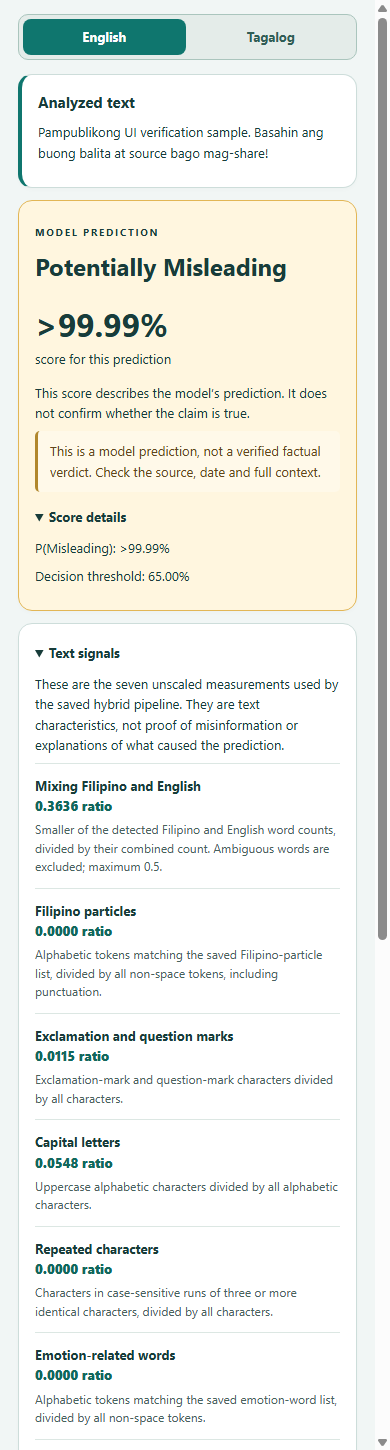
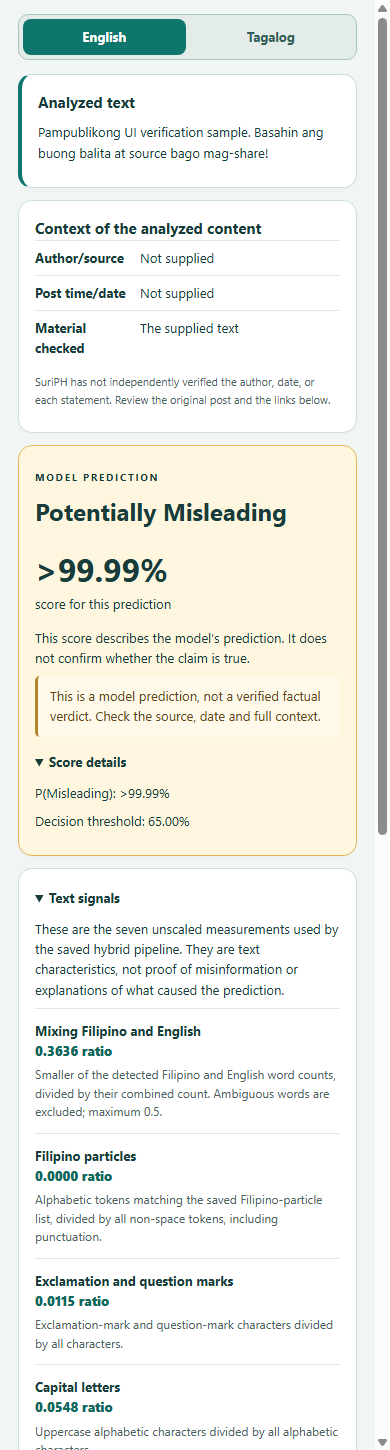
Restore Facebook context and source lookup

diff --git a/chrome-extension/src/Popup.jsx b/chrome-extension/src/Popup.jsx
@@ -7,18 +7,18 @@ const copy = {
     tagline: 'Read carefully. Check the context.', pageTools: 'Page tools', on: 'on', off: 'off', toggleTitle: 'Turn SuriPH page controls on or off and reload Facebook',
     textLabel: 'Text to analyze', inputHelp: 'Use public, non-sensitive Facebook content. The screening service does not save it by default. Review the complete text below before analysis.', placeholder: 'Paste English, Filipino or Taglish text…', selected: 'Use selected text', caption: 'Use Facebook post caption', lookup: 'Related-source lookup', lookupHelp: 'Search related reading and published fact-check reviews. Up to 500 characters may be sent to Serper and Google Fact Check. This does not change the prediction.', privacy: 'Do not submit private or identifying content.', analyze: 'Analyze text', mediaTitle: 'Optional image or video extraction', mediaHelp: 'Review the extracted text. Quality depends on the media and server support.', mediaType: 'Media type', image: 'Image OCR', video: 'Video speech and frame text', choose: 'Choose a file (maximum 50 MiB)', extract: 'Extract and analyze', clear: 'Clear this input and result', empty: 'Your prediction and seven text measurements will appear here.', prototype: 'Research prototype · Predictions can be wrong.',
     reading: 'Reading selected Facebook content', analyzing: 'Analyzing text', mediaBusy: 'Extracting and analyzing media', keepOpen: 'Please keep this popup open.', noTab: 'Open Facebook in the active tab first.', noText: 'No readable Facebook post text was found. Select the exact text or paste it here.', enter: 'Enter or select text before analyzing.', noFile: 'Choose a file first.', unavailable: 'The screening service is unavailable. Try again later.',
-    analyzed: 'Analyzed text', prediction: 'MODEL PREDICTION', classScore: 'score for this prediction', scoreExplain: 'This score describes the model’s prediction. It does not confirm whether the claim is true.', nonLimit: '“No Misleading Information Detected” does not confirm that the claim is true. Check the source, date and full context.', misLimit: 'This is a model prediction, not a verified factual verdict. Check the source, date and full context.', technical: 'Score details', misleadingProbability: 'P(Misleading)', threshold: 'Decision threshold',
+    analyzed: 'Analyzed text', contextTitle: 'Context of the analyzed content', author: 'Author/source', postTime: 'Post time/date', checkedMaterial: 'Material checked', contextLimit: 'SuriPH has not independently verified the author, date, or each statement. Review the original post and the links below.', prediction: 'MODEL PREDICTION', classScore: 'score for this prediction', scoreExplain: 'This score describes the model’s prediction. It does not confirm whether the claim is true.', nonLimit: '“No Misleading Information Detected” does not confirm that the claim is true. Check the source, date and full context.', misLimit: 'This is a model prediction, not a verified factual verdict. Check the source, date and full context.', technical: 'Score details', misleadingProbability: 'P(Misleading)', threshold: 'Decision threshold',
     signals: 'Text signals', signalHelp: 'These are the seven unscaled measurements used by the saved hybrid pipeline. They are text characteristics, not proof of misinformation or explanations of what caused the prediction.', ratio: 'ratio',
-    related: 'Related sources', relatedHelp: 'Search matches are related reading only. They do not automatically support or debunk the text.', lookupOff: 'Related-source lookup was not requested.', noRelated: 'No matching links were returned from the allowed publishers.', lookupUnavailable: 'Related-source lookup is unavailable. The prediction is unchanged.', factChecks: 'Published fact-check reviews', factHelp: 'Published reviews are independent from the SuriPH prediction and do not change it.', factOff: 'Published fact-check lookup was not requested.', noFacts: 'Google Fact Check returned no matching published reviews.', factUnavailable: 'Published fact-check lookup is unavailable. The prediction is unchanged.', missingLinks: 'Missing links do not validate the prediction.', publisherMissing: 'Publisher not supplied', searchResult: 'Search result', rating: 'Published rating',
+    related: 'Related sources from approved publishers', relatedHelp: 'Search matches are related reading only. They do not automatically support or debunk the text.', lookupOff: 'Source lookup was off for this request. Turn it on before analyzing again.', noRelated: 'No matching links were returned from the approved publishers.', lookupUnavailable: 'Related-source lookup is unavailable. The prediction is unchanged.', factChecks: 'Published fact-check reviews', factHelp: 'Published reviews are independent from the SuriPH prediction and do not change it.', factOff: 'Fact-check lookup was off for this request. Turn source lookup on before analyzing again.', noFacts: 'Google Fact Check returned no matching published reviews.', factUnavailable: 'Published fact-check lookup is unavailable. The prediction is unchanged.', missingLinks: 'Missing links do not validate the prediction.', publisherMissing: 'Publisher not supplied', searchResult: 'Search result', rating: 'Published rating',
     next: 'Next actions', nextHelp: 'Review the original source and context. You may optionally submit this exact text as a research candidate for human review.', consent: 'I consent to storing this analyzed text and page metadata in the private candidate-review queue. It will not enter a dataset automatically.', submit: 'Submit candidate for human review', submitting: 'Submitting…', submitted: 'Submitted for human review.', candidateError: 'The candidate could not be submitted.',
   },
   tl: {
     tagline: 'Basahing mabuti. Suriin ang konteksto.', pageTools: 'Mga kontrol sa page', on: 'on', off: 'off', toggleTitle: 'I-on o i-off ang mga kontrol ng SuriPH at i-reload ang Facebook',
     textLabel: 'Tekstong susuriin', inputHelp: 'Gumamit ng pampubliko at hindi sensitibong content mula sa Facebook. Hindi ito sine-save ng screening service bilang default. Basahin muna ang buong teksto sa ibaba.', placeholder: 'I-paste ang English, Filipino, o Taglish na teksto…', selected: 'Gamitin ang piniling teksto', caption: 'Gamitin ang caption ng Facebook post', lookup: 'Paghahanap ng kaugnay na source', lookupHelp: 'Maghanap ng kaugnay na babasahin at nailathalang fact-check. Hanggang 500 character ang maaaring ipadala sa Serper at Google Fact Check. Hindi nito binabago ang prediction.', privacy: 'Huwag magsumite ng pribado o makakakilalang impormasyon.', analyze: 'Suriin ang teksto', mediaTitle: 'Opsyonal na pagkuha mula sa image o video', mediaHelp: 'Suriin muna ang nakuhang teksto. Nakadepende ang kalidad sa media at suporta ng server.', mediaType: 'Uri ng media', image: 'Teksto sa image (OCR)', video: 'Salita at teksto sa frame ng video', choose: 'Pumili ng file (hanggang 50 MiB)', extract: 'Kunin at suriin', clear: 'Burahin ang input at resulta', empty: 'Dito lalabas ang prediction at pitong sukat ng teksto.', prototype: 'Research prototype · Maaaring magkamali ang prediction.',
     reading: 'Binabasa ang piniling Facebook content', analyzing: 'Sinusuri ang teksto', mediaBusy: 'Kinukuha at sinusuri ang media', keepOpen: 'Panatilihing bukas ang popup na ito.', noTab: 'Buksan muna ang Facebook sa aktibong tab.', noText: 'Walang nakitang mababasang teksto ng Facebook post. Piliin ang eksaktong teksto o i-paste ito rito.', enter: 'Maglagay o pumili muna ng teksto.', noFile: 'Pumili muna ng file.', unavailable: 'Hindi magamit ang screening service. Subukan muli mamaya.',
-    analyzed: 'Sinuring teksto', prediction: 'PREDICTION NG MODELO', classScore: 'score para sa prediction na ito', scoreExplain: 'Ang score na ito ay para sa hula ng modelo. Hindi nito pinatutunayang totoo o mali ang pahayag.', nonLimit: 'Ang “No Misleading Information Detected” ay hindi patunay na totoo ang pahayag. Suriin ang source, petsa, at buong konteksto.', misLimit: 'Prediction ito ng modelo at hindi beripikadong hatol sa katotohanan. Suriin ang source, petsa, at buong konteksto.', technical: 'Detalye ng score', misleadingProbability: 'P(Misleading)', threshold: 'Threshold ng desisyon',
+    analyzed: 'Sinuring teksto', contextTitle: 'Konteksto ng sinuring content', author: 'May-akda/source', postTime: 'Oras o petsa ng post', checkedMaterial: 'Sinuring bahagi', contextLimit: 'Hindi hiwalay na napatunayan ng SuriPH ang may-akda, petsa, o bawat pahayag. Suriin ang orihinal na post at mga link sa ibaba.', prediction: 'PREDICTION NG MODELO', classScore: 'score para sa prediction na ito', scoreExplain: 'Ang score na ito ay para sa hula ng modelo. Hindi nito pinatutunayang totoo o mali ang pahayag.', nonLimit: 'Ang “No Misleading Information Detected” ay hindi patunay na totoo ang pahayag. Suriin ang source, petsa, at buong konteksto.', misLimit: 'Prediction ito ng modelo at hindi beripikadong hatol sa katotohanan. Suriin ang source, petsa, at buong konteksto.', technical: 'Detalye ng score', misleadingProbability: 'P(Misleading)', threshold: 'Threshold ng desisyon',
     signals: 'Mga katangian ng teksto', signalHelp: 'Ito ang pitong hindi na-scale na sukat na ginamit ng naka-save na hybrid pipeline. Mga katangian ito ng teksto, hindi patunay ng misinformation o paliwanag kung ano ang sanhi ng prediction.', ratio: 'ratio',
-    related: 'Mga kaugnay na source', relatedHelp: 'Kaugnay na babasahin lamang ang mga resulta ng search. Hindi awtomatikong sumusuporta o nagpapabulaan ang mga ito.', lookupOff: 'Hindi hiniling ang paghahanap ng kaugnay na source.', noRelated: 'Walang tumugmang link mula sa pinapayagang publisher.', lookupUnavailable: 'Hindi magamit ang paghahanap ng source. Hindi nagbago ang prediction.', factChecks: 'Mga nailathalang fact-check', factHelp: 'Hiwalay sa prediction ng SuriPH ang mga nailathalang review at hindi nila ito binabago.', factOff: 'Hindi hiniling ang paghahanap ng nailathalang fact-check.', noFacts: 'Walang ibinalik na tumugmang review ang Google Fact Check.', factUnavailable: 'Hindi magamit ang Google Fact Check. Hindi nagbago ang prediction.', missingLinks: 'Hindi pinatutunayan ng kawalan ng link ang prediction.', publisherMissing: 'Walang ibinigay na publisher', searchResult: 'Resulta ng search', rating: 'Nailathalang rating',
+    related: 'Mga kaugnay na source mula sa aprubadong publisher', relatedHelp: 'Kaugnay na babasahin lamang ang mga resulta ng search. Hindi awtomatikong sumusuporta o nagpapabulaan ang mga ito.', lookupOff: 'Naka-off ang source lookup para sa request na ito. I-on ito bago suriin muli.', noRelated: 'Walang tumugmang link mula sa mga aprubadong publisher.', lookupUnavailable: 'Hindi magamit ang paghahanap ng source. Hindi nagbago ang prediction.', factChecks: 'Mga nailathalang fact-check', factHelp: 'Hiwalay sa prediction ng SuriPH ang mga nailathalang review at hindi nila ito binabago.', factOff: 'Naka-off ang fact-check lookup para sa request na ito. I-on ang source lookup bago suriin muli.', noFacts: 'Walang ibinalik na tumugmang review ang Google Fact Check.', factUnavailable: 'Hindi magamit ang Google Fact Check. Hindi nagbago ang prediction.', missingLinks: 'Hindi pinatutunayan ng kawalan ng link ang prediction.', publisherMissing: 'Walang ibinigay na publisher', searchResult: 'Resulta ng search', rating: 'Nailathalang rating',
     next: 'Mga susunod na hakbang', nextHelp: 'Suriin ang orihinal na source at konteksto. Maaari mong kusang isumite ang eksaktong tekstong ito bilang research candidate para sa human review.', consent: 'Pumapayag akong i-store ang sinuring teksto at page metadata sa pribadong candidate-review queue. Hindi ito awtomatikong isasama sa dataset.', submit: 'Isumite para sa human review', submitting: 'Isinusumite…', submitted: 'Naisumite na para sa human review.', candidateError: 'Hindi naisumite ang candidate.',
   },
 };
@@ -44,8 +44,10 @@ export function Result({ result, language = 'en', onLanguageChange = () => {}, c
   if (!result) return null;
   const t = copy[language];
   const selectedScore = Number.isFinite(result.displayed_class_score) ? result.displayed_class_score : Number(result.confidence);
+  const context = result.context_explanation || {};
   return <section className="result-stack" aria-label="Analysis result"><LanguageSwitch language={language} onChange={onLanguageChange} />
     <article className="result-card analyzed-card"><h3>{t.analyzed}</h3><p className="input-preview">{result.analyzed_text}</p></article>
+    <article className="result-card context-card"><h3>{t.contextTitle}</h3><dl className="context-list"><div><dt>{t.author}</dt><dd>{context.author || t.publisherMissing}</dd></div><div><dt>{t.postTime}</dt><dd>{context.timing || t.publisherMissing}</dd></div><div><dt>{t.checkedMaterial}</dt><dd>{context.checked_material || t.analyzed}</dd></div></dl><p className="small">{t.contextLimit}</p></article>
     <article className={`result-card prediction-card ${result.internal_label === 'Misleading' ? 'warning' : 'clear'}`}>
       <p className="eyebrow">{t.prediction}</p><h2>{displayLabel(result)}</h2><p className="score"><strong>{percent(selectedScore)}%</strong> {t.classScore}</p>
       <p>{t.scoreExplain}</p><p className="notice">{result.internal_label === 'Misleading' ? t.misLimit : t.nonLimit}</p>

diff --git a/chrome-extension/src/content.js b/chrome-extension/src/content.js
@@ -113,6 +113,14 @@ function collectPostMedia(post) {
   return { image_urls: [...new Set(images)].slice(0, 4), video_url: /^(https?:|blob:)/i.test(videoUrl || '') ? videoUrl : null, has_video: Boolean(activeVideo || post.querySelector('[data-video-id], [aria-label*="video" i]')) };
 }
 function setMessage(container, text, tone = 'muted') { container.textContent = text; container.dataset.tone = tone; }
+function appendLookupChoice(container) {
+  const label = document.createElement('label');
+  label.style.cssText = 'display:flex;gap:9px;align-items:flex-start;margin:12px 0;padding:10px;border:1px solid #99bdb5;border-radius:8px;background:#ecfdf5;color:#134e4a;font:600 13px/1.4 Arial;';
+  const checkbox = document.createElement('input'); checkbox.type = 'checkbox'; checkbox.checked = retrievalEnabled; checkbox.style.cssText = 'width:17px;height:17px;margin-top:1px;accent-color:#0f766e;flex:none;';
+  const text = document.createElement('span'); text.textContent = tr('Search approved news sources and published fact-check reviews for this analysis.', 'Maghanap sa mga aprubadong news source at nailathalang fact-check para sa pagsusuring ito.');
+  checkbox.addEventListener('change', () => { retrievalEnabled = checkbox.checked; chrome.storage.local.set({ suriphRetrieveSources: retrievalEnabled }); });
+  label.append(checkbox, text); container.appendChild(label);
+}
 async function captureVisibleVideo(post) {
   const video = findBestVideo(post);
   if (!video || typeof video.captureStream !== 'function') throw new Error('This browser did not expose a capturable video stream. Use the video file upload instead.');
@@ -155,6 +163,17 @@ function renderRichResult(container, result) {
   const checkedTitle = document.createElement('b'); checkedTitle.textContent = tl ? 'Sinuring teksto' : 'Analyzed text';
   const checkedText = document.createElement('p'); checkedText.textContent = result.analyzed_text || ''; checkedText.style.cssText = 'max-height:150px;overflow:auto;margin:7px 0 0;white-space:pre-wrap;overflow-wrap:anywhere;'; checked.append(checkedTitle, checkedText); container.appendChild(checked);
 
+  const context = result.context_explanation || {};
+  const contextBox = document.createElement('section'); contextBox.className = 'context-box';
+  const contextTitle = document.createElement('b'); contextTitle.textContent = tl ? 'Konteksto ng sinuring content' : 'Context of the analyzed content'; contextBox.appendChild(contextTitle);
+  const contextRows = [
+    [tl ? 'May-akda/source' : 'Author/source', context.author],
+    [tl ? 'Oras o petsa ng post' : 'Post time/date', context.timing],
+    [tl ? 'Sinuring bahagi' : 'Material checked', context.checked_material],
+  ];
+  for (const [name, value] of contextRows) if (value) { const row = document.createElement('p'); row.textContent = `${name}: ${value}`; row.style.cssText = 'margin:5px 0;'; contextBox.appendChild(row); }
+  const contextLimit = document.createElement('p'); contextLimit.textContent = tl ? 'Hindi hiwalay na napatunayan ng SuriPH ang may-akda, petsa, o bawat pahayag. Suriin ang orihinal na post at mga link sa ibaba.' : 'SuriPH has not independently verified the author, date, or each statement. Review the original post and the links below.'; contextLimit.style.cssText = 'margin:7px 0 0;color:#475569;font-size:12px;'; contextBox.appendChild(contextLimit); container.appendChild(contextBox);
+
   const heading = addText('strong', label, `display:block;margin:2px 0 4px;padding:14px 16px;border-radius:10px;background:${result.internal_label === 'Misleading' ? '#fef3c7' : '#d1fae5'};color:#143c35;font-size:18px;text-align:center;`);
   heading.setAttribute('role', 'status');
   addText('p', `${pct(selectedScore)}% ${tl ? 'score para sa prediction na ito' : 'score for this prediction'}`, 'margin:4px 0;font-size:18px;font-weight:800;');
@@ -170,9 +189,9 @@ function renderRichResult(container, result) {
 
   if (result.extraction?.transcript_text || result.extraction?.frame_ocr_text) { const extraction = document.createElement('details'); const title = document.createElement('summary'); title.textContent = tl ? 'Tekstong kinuha sa video' : 'Video text extraction'; extraction.appendChild(title); if (result.extraction.transcript_text) { const speech = document.createElement('p'); speech.textContent = `${tl ? 'Salita mula sa audio' : 'Speech transcript'}: ${result.extraction.transcript_text}`; extraction.appendChild(speech); } if (result.extraction.frame_ocr_text) { const frames = document.createElement('p'); frames.textContent = `${tl ? 'Teksto sa mga frame' : 'On-screen frame text'}: ${result.extraction.frame_ocr_text}`; extraction.appendChild(frames); } container.appendChild(extraction); }
 
-  const sourceBox = (title, note, items, status) => { const box = document.createElement('section'); box.className = 'sources'; box.style.cssText = 'padding:12px;border:1px solid #bae6fd;border-radius:10px;background:#f0f9ff;color:#334155;'; const head = document.createElement('b'); head.textContent = title; const help = document.createElement('span'); help.textContent = note; box.append(head, help); if (items.length) items.slice(0, 3).forEach((item) => { const href = safeUrl(item.url); if (!href) return; const link = document.createElement('a'); link.href = href; link.target = '_blank'; link.rel = 'noopener noreferrer'; link.textContent = item.title || item.claim || href; box.appendChild(link); }); else { const empty = document.createElement('span'); empty.textContent = status; box.appendChild(empty); } container.appendChild(box); };
-  const sourceStatus = result.retrieval_status === 'not_requested' ? (tl ? 'Hindi hiniling ang paghahanap.' : 'Related-source lookup was not requested.') : result.retrieval_status === 'no_results' ? (tl ? 'Walang tumugmang link. Hindi nito pinatutunayan ang prediction.' : 'No matching links were returned. Missing links do not validate the prediction.') : (tl ? 'Hindi magamit ang paghahanap. Hindi nagbago ang prediction.' : 'Related-source lookup is unavailable. The prediction is unchanged.');
-  sourceBox(tl ? 'Mga kaugnay na source' : 'Related sources', tl ? 'Kaugnay na babasahin lamang; hindi awtomatikong ebidensya.' : 'Related reading only; not automatically supporting or debunking evidence.', result.related_sources || [], sourceStatus);
+  const sourceBox = (title, note, items, status) => { const box = document.createElement('section'); box.className = 'sources'; box.style.cssText = 'padding:12px;border:1px solid #bae6fd;border-radius:10px;background:#f0f9ff;color:#334155;'; const head = document.createElement('b'); head.textContent = title; const help = document.createElement('span'); help.textContent = note; box.append(head, help); if (items.length) items.slice(0, 3).forEach((item) => { const href = safeUrl(item.url); if (!href) return; const article = document.createElement('article'); article.style.cssText = 'padding-top:8px;border-top:1px solid #bae6fd;'; const link = document.createElement('a'); link.href = href; link.target = '_blank'; link.rel = 'noopener noreferrer'; link.textContent = item.title || item.claim || href; article.appendChild(link); const meta = [item.source || item.publisher, item.date || item.review_date, item.rating ? `${tl ? 'Rating' : 'Published rating'}: ${item.rating}` : ''].filter(Boolean).join(' · '); if (meta) { const details = document.createElement('small'); details.textContent = meta; article.appendChild(details); } const summary = item.snippet || item.claim; if (summary && summary !== item.title) { const snippet = document.createElement('span'); snippet.textContent = summary; snippet.style.cssText = 'margin-top:3px;'; article.appendChild(snippet); } box.appendChild(article); }); else { const empty = document.createElement('span'); empty.textContent = status; box.appendChild(empty); } container.appendChild(box); };
+  const sourceStatus = result.retrieval_status === 'not_requested' ? (tl ? 'Hindi naka-on ang source lookup para sa request na ito. I-check ang source lookup bago suriin muli.' : 'Source lookup was off for this request. Turn it on before analyzing again.') : result.retrieval_status === 'no_results' ? (tl ? 'Walang tumugmang link. Hindi nito pinatutunayan ang prediction.' : 'No matching links were returned. Missing links do not validate the prediction.') : (tl ? 'Hindi magamit ang paghahanap. Hindi nagbago ang prediction.' : 'Related-source lookup is unavailable. The prediction is unchanged.');
+  sourceBox(tl ? 'Mga kaugnay na source mula sa aprubadong publisher' : 'Related sources from approved publishers', tl ? 'Kaugnay na babasahin lamang; hindi awtomatikong ebidensya.' : 'Related reading only; not automatically supporting or debunking evidence.', result.related_sources || [], sourceStatus);
   const factStatus = result.fact_check_status === 'not_requested' ? (tl ? 'Hindi hiniling ang fact-check lookup.' : 'Published fact-check lookup was not requested.') : result.fact_check_status === 'no_results' ? (tl ? 'Walang tumugmang nailathalang review.' : 'No matching published review was returned.') : (tl ? 'Hindi magamit ang fact-check lookup. Hindi nagbago ang prediction.' : 'Published fact-check lookup is unavailable. The prediction is unchanged.');
   sourceBox(tl ? 'Mga nailathalang fact-check' : 'Published fact-check reviews', tl ? 'Hiwalay ang mga ito sa prediction at hindi nila ito binabago.' : 'These are independent from the prediction and do not change it.', result.fact_check_matches || [], factStatus);
   if (result.media_status === 'unavailable') addText('p', `${tl ? 'Hindi magamit ang media' : 'Media unavailable'}: ${result.media_error || ''}`, 'color:#991b1b;');
@@ -183,6 +202,7 @@ function renderMediaChooser(post, button, message, result, media) {
   result.replaceChildren();
   const title = document.createElement('strong'); title.textContent = tr('What would you like SuriPH to check?', 'Ano ang gusto mong suriin ng SuriPH?'); title.style.cssText = 'display:block;font-size:18px;margin-bottom:8px;color:#0f172a'; result.appendChild(title);
   const note = document.createElement('span'); note.textContent = tr('This post contains media. Choose the media itself or the caption.', 'May media ang post na ito. Piliin ang media o ang caption.'); result.appendChild(note);
+  appendLookupChoice(result);
   const choices = document.createElement('div'); choices.style.cssText = 'display:grid;grid-template-columns:repeat(auto-fit,minmax(150px,1fr));gap:10px;margin-top:8px;';
   const addChoice = (label, mode) => { const choice = document.createElement('button'); choice.type = 'button'; choice.textContent = label; choice.style.cssText = 'height:44px;border:0;border-radius:10px;background:#0ea5e9;color:#fff;font:700 14px Arial;cursor:pointer;'; choice.addEventListener('click', () => { result.replaceChildren(); button.dataset.choicePending = 'false'; analyzePost(post, button, message, result, mode); }); choices.appendChild(choice); };
   if (media.has_video) addChoice(tr('Check this video', 'Suriin ang video'), 'video');
@@ -216,7 +236,7 @@ function analyzePost(post, button, message, result, mediaChoice = 'auto') {
     const body = document.createElement('p'); body.textContent = text; body.style.cssText = 'max-height:180px;overflow:auto;white-space:pre-wrap;overflow-wrap:anywhere;';
     const confirm = document.createElement('button'); confirm.type = 'button'; confirm.textContent = interfaceLanguage === 'tl' ? 'Suriin ang tekstong ito' : 'Analyze this text'; confirm.style.cssText = 'width:100%;padding:10px;border:0;border-radius:8px;background:#0f766e;color:white;font-weight:700;cursor:pointer;';
     confirm.addEventListener('click', () => { button.dataset.previewConfirmed = 'true'; result.replaceChildren(); analyzePost(post, button, message, result, mediaChoice); });
-    preview.append(title, body, confirm); result.appendChild(preview); return;
+    preview.append(title, body); appendLookupChoice(preview); preview.appendChild(confirm); result.appendChild(preview); return;
   }
   if (mediaChoice === 'video' && media.has_video) {
     setMessage(message, media.video_url ? tr('SuriPH is retrieving the loaded video content...', 'Kinukuha ng SuriPH ang naka-load na video...') : tr('SuriPH is capturing the video playback...', 'Kinukuha ng SuriPH ang video playback...'), 'loading');

diff --git a/chrome-extension/src/index.css b/chrome-extension/src/index.css
@@ -26,4 +26,5 @@ button { font: inherit; cursor: pointer; border-radius: 8px; padding: 10px 12px;
 .choices { border: 0; margin: 16px 0 8px; padding: 0; } .choices legend { font-size: 12px; font-weight: 750; } .choices label { display: flex; gap: 9px; align-items: start; font-size: 12px; font-weight: 400; margin: 12px 0; } input[type=checkbox] { flex-shrink: 0; width: 16px; height: 16px; margin-top: 2px; accent-color: #0f766e; }
 .small { color: #49635d; font-size: 11px; } .notice { border-left: 3px solid #b1872c; background: #fff9e9; padding: 10px 12px; color: #62461b; border-radius: 5px; } .error { color: #882a23; background: #fff0ee; border: 1px solid #e8b9b3; border-radius: 8px; padding: 12px; } .success { color: #14532d; background: #ecfdf5; border: 1px solid #86efac; border-radius: 8px; padding: 10px; } .empty-state { padding: 20px; color: #526b65; text-align: center; }
 .feature-list > div { border-top: 1px solid #dce7e3; padding: 12px 0; } .feature-list dt { font-weight: 650; } .feature-list dt strong { display: block; color: #11685c; font-variant-numeric: tabular-nums; } .feature-list dd { font-size: 12px; color: #49635d; margin: 4px 0 0; }
+.context-list { margin: 0; } .context-list > div { display: grid; grid-template-columns: minmax(95px, .4fr) 1fr; gap: 10px; padding: 7px 0; border-top: 1px solid #dce7e3; } .context-list dt { font-weight: 700; } .context-list dd { margin: 0; overflow-wrap: anywhere; }
 .source { border-top: 1px solid #dce7e3; padding: 10px 0; } a { color: #076b82; text-decoration: underline; text-underline-offset: 2px; } .source p { font-size: 11px; } .input-preview { white-space: pre-wrap; max-height: 180px; overflow-y: auto; } .analyzed-card { border-left: 4px solid #0f766e; } .score-details { margin-top: 12px; } .score-details p { font-variant-numeric: tabular-nums; } .consent-row { display: flex; align-items: flex-start; gap: 9px; margin: 14px 0; font-size: 12px; font-weight: 450; } .full-width { width: 100%; } footer { text-align: center; color: #526b65; font-size: 11px; margin-top: 18px; } .text-button { color: #0f766e; background: transparent; text-decoration: underline; }

diff --git a/docs/RELEASE-READINESS.md b/docs/RELEASE-READINESS.md
@@ -24,8 +24,8 @@ private model mounts, explicit migrations, HTTPS proxy, retention and backups.
 | Media | Actual EasyOCR image smoke passed in 5.08 s; video OCR + Whisper smoke passed in 14.05 s | [Media report](MEDIA-VERIFICATION.json); synthetic fixtures, not an accuracy study |
 | UI | Actual React component screenshots in headless Chrome; API feature values match rendered data attributes; English 390 px and Tagalog 320 px result layouts have no horizontal overflow | [UI report](UI-VERIFICATION.json), [screenshots](verification/ui/) |
 | Installed extension | Actual unpacked build in isolated Microsoft Edge Chromium: action popup, focused caption extraction, reload toggle, persisted opt-in lookup, long/stale/duplicate behavior, live Serper/Google evidence, and absence of survey controls passed | [Installed-extension report](INSTALLED-EXTENSION-VERIFICATION.json) |
-| Current popup regression | Updated unpacked build in isolated Edge: live API, duplicate/stale/long input, seven feature values, and language switch without another request passed | [Popup report](EXTENSION-POPUP-VERIFICATION.json) |
-| Actual Google Chrome/Facebook | Not passed: Chrome ignored automated unpacked loading and the visible Facebook-tab inspection was interrupted before interaction | [Chrome/Facebook status](CHROME-FACEBOOK-VERIFICATION.json) |
+| Current popup regression | Updated unpacked build in isolated Edge: live API, duplicate/stale/long input, seven feature values, restored context, and language switch without another request passed | [Popup report](EXTENSION-POPUP-VERIFICATION.json) |
+| Actual Google Chrome/Facebook | An actual Facebook analysis exposed that the in-page request left lookup off and omitted context. Both defects are corrected in the rebuilt extension; Chrome reload and hands-on retest remain pending | [Chrome/Facebook status](CHROME-FACEBOOK-VERIFICATION.json) |
 | Extension failure states | A stopped backend produced a clear unavailable message and no prediction; controlled popup checks covered timeout, no-results and provider-unavailable display without changing the classifier result | [Failure-state report](EXTENSION-FAILURE-VERIFICATION.json) |
 | Administrator browser flow | Actual isolated Chromium login, HttpOnly-cookie reload, absent participant view/export, logout, expired 401, first keyboard focus and narrow layout passed | [Admin browser report](ADMIN-BROWSER-VERIFICATION.json) |
 | Frontends | Dashboard lint/build and extension build passed; release extension build intentionally rejects missing HTTPS configuration | `npm run lint`, `npm run build`, `npm run build:release` |
@@ -47,6 +47,14 @@ and a technical UI that always foregrounded P(Misleading), even for a Non-Mislea
 selection. The fallback is removed and the UI now presents the selected-class score while
 retaining P(Misleading) in details. These changes do not correct the classifier's observed
 short-input bias or prove the user's complaint resolved for real Facebook posts.
+
+An actual Chrome/Facebook result then confirmed a separate source-display defect: the
+in-page flow had no visible way to opt into lookup, so the API correctly returned
+`not_requested`, and the redesigned result omitted the existing context object. The in-page
+preview now has an explicit approved-source/fact-check checkbox, and context is visible in
+both result surfaces. For the public post text used to report the issue, a live API check
+returned one approved-publisher result and no matching Google Fact Check review. The latter
+is a valid no-results response; the system does not fabricate additional reviews.
 
 ## Resource measurements and their limits
 
